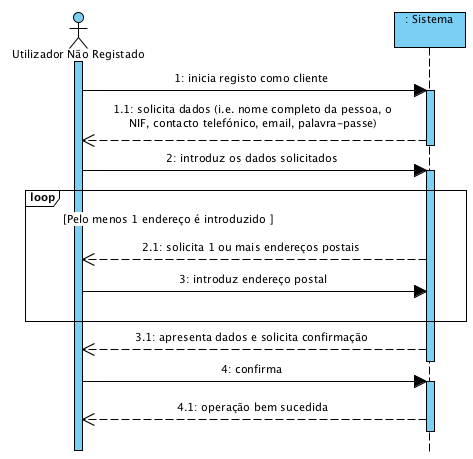
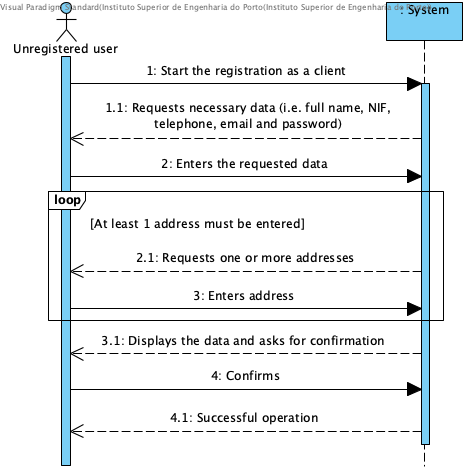
UC1 complete

Changed region(s): [[0.0, 0.0, 1.0, 1.0]]

diff --git a/CasosUso/UC1_ClientRegistration.md b/CasosUso/UC1_ClientRegistration.md
@@ -1,0 +1,91 @@
+# UC1 - Register as a Client
+
+## Brief Description
+
+The unregistered user starts the registration as a client. The system requests the necessary data (i.e. the person's full name, NIF, telephone contact, email, password, and at least one postal address). The unregistered user enters the requested data. The system validates and displays the data, asking you to confirm them. The unregistered user confirms. The system records the customer and registered user data and informs the unregistered user of the success of the operation.
+
+## SSD
+![UC1-SSD-IT2.png](SSD_UC1_IT2.png)
+
+## Full Description
+
+### Primary Actor
+
+Unregistered user
+
+### Stakeholders and their interests
+* **Unregistered User:** intends to register so that you can enjoy the services provided by the company.
+* **Company:** intends that the person concerned becomes a client in order to request services.
+
+
+### Preconditions
+n/a
+
+### Postconditions
+The registration information is stored in the system.
+
+## Main Success Scenario
+
+1. The unregistered user starts the registration as a client.
+2. The system requests the necessary data (i.e. the person's full name, NIF, telephone contact, email and password).
+3. The unregistered user enters the requested data.
+4. The system requests a postal address.
+5. The unregistered user enters the postal address.
+6. The system validates and stores the entered address.
+7. Steps 4 to 6 are repeated until all the required postal addresses are entered (minimum 1).
+8. The system validates and displays the data, asking you to confirm them.
+9. The unregistered user confirms.
+10. system registers the customer and registered user data and informs the unregistered user of the success of the operation.
+
+### Exception conditions (alternative flow)
+
+*a. The unregistered user requests the cancellation of the registration.
+
+> The use case ends.
+
+** 4a. NIF and / or duplicate e-mail address **
+> 1. The system informs the user about the duplication of the data.
+> 2. The system allows you to enter new data (step 3)
+>
+> 2a. The unregistered user does not change the data. The use case ends.
+
+6b. Incomplete Postal Address Information.
+> 1. The system informs you of missing data.
+> 2. The system allows the missing data to be entered (step 5)
+>
+> 2a. The unregistered user does not change the data. The use case ends.
+
+8a. Required minimum data missing.
+> 1. The system informs you of missing data.
+> 2. The system allows the missing data to be entered (step 3)
+>
+> 2a. The unregistered user does not change the data. The use case ends.
+
+8b. The system detects that the data (or some subset of the data) entered must be unique and already exist in the system.
+> 1. The system alerts the unregistered user to the fact.
+> 2. The system allows you to change it (step 3)
+>
+> 2a. The unregistered user does not change the data. The use case ends.
+
+8c. The system detects that the entered data (or some subset of the data) is invalid.
+> 1. The system alerts the unregistered user to the fact.
+> 2. The system allows you to change it (step 3).
+>
+> 2a. The unregistered user does not change the data. The use case ends.
+
+### Special Requirements
+\ -
+
+### Variations in Technologies and Data
+\ -
+
+### Frequency of Occurrence
+\ -
+
+### Open questions
+
+* Are there any other mandatory data besides those already known?
+* What data together allow you to detect duplicate customers?
+* Is there any additional security mechanism required to confirm that the customer is in fact who he or she claims to be?
+* What are the security rules applicable to the password?
+* How often does this use case occur?

diff --git a/Design/UC1_ClientRegistration.md b/Design/UC1_ClientRegistration.md
@@ -1,0 +1,46 @@
+# Realization of UC1 - Client Registration
+
+## Rational
+
+| Main Flow                                                                                        | Question: Which class...                                      | Answer                                       | Justification                                                                                                         |
+|:-------------------------------------------------------------------------------------------------------|:------------------------------------------------------------|:-----------------------------------------------|:---------------------------------------------------------------------------------------------------------------------|
+| 1. The unregistered user starts the registration as a client. | ... interacts with the user? | ClientRegistrationUI | PureFabrication |
+|| ... coordinates the UC? | ClientRegistrationController | Controller|
+|| ... create / instance Client? |ClientRegistry|HC + LC (on Company) + Creator (Rule 1) |  
+|| ... who knows the ClientRegistry? |Company|HC+LC|
+| 2. The system requests the required data (i.e. full name, NIF, telephone contact, email and password). | | ||
+| 3. The unregistered user enters the requested data. |...Save the entered data? | Client | Information Expert (IE) - instance created in step 1 |                                  
+| 4. The system requests an address.||||
+| 5. The unregistered user enters the postal address. | ... create / instance Address? | Client | Creator (Rule 4) |
+|| ... save the entered data? | Address | Information Expert (IE) - instance created in this step |
+||| PostalCode | IE: Adress has a PostalCode |
+| 6. The system validates and stores the entered address. | ... save the created Address instance? |Client | Information Expert (IE) - In MD the Client mentions one or more Addresses |
+| 7. Steps 4 to 6 are repeated until all the required postal addresses are entered (minimum 1).||||
+| 8. The system validates and presents the data, asking you to confirm them. | ... validates the data of the Client (local validation)? | Client | E: Client has its own data |
+|| ... validates the customer data (global validation)? | ClientRegistry | IE: The ClientRegistry contains Clients |
+| 9. The unregistered user confirms. ||||
+| 10. system registers the customer and registered user data and informs the unregistered user of the success of the operation.|... keeps the client registered?|ClientRegistry|IE. the ClientRegistry contains Clients |
+
+## Systematization ##
+
+From the rational it results that the conceptual classes promoted to classes of software are:
+
+ * Company
+ * Address
+ * Postal Code
+ * Client
+ * ClientRegistry
+
+Other software classes (i.e. Pure Fabrication) identified:
+
+ * ClientRegistrationUI  
+ * ClientRegistrationController
+
+##	Sequence Diagram
+
+![SD_UC1_IT2.png](SD_UC1_IT2.png)
+
+
+##	Class Diagram
+
+![CD_UC1_IT2.png](CD_UC1_IT2.png)

diff --git a/UseCases.md b/UseCases.md
@@ -5,7 +5,7 @@
 # Use Cases
 | UC    | Descrição                                                                                                  |
 | :---- | :------------------------------------------------------------------------                                  |
-| UC1   | [Efetuar Registo como Cliente](CasosUso/UC1_EfetuarRegistoCliente.md)                                      |
+| UC1   | [Client Registration](CasosUso/UC1_ClientRegistration.md)                                      |
 | UC2   | [Submeter Candidatura a Prestador Serviço](CasosUso/UC2_SubmeterCandidaturaPrestadorServico.md)            |
 | UC3   | [Especificar Categoria (de Serviço)](CasosUso/UC3_EspecificarCategoria.md)                                 |
 | UC4   | [Especificar Serviço](CasosUso/UC4_EspecificarServico.md)                                                  |

diff --git a/OODesign.md b/OODesign.md
@@ -3,7 +3,7 @@
 
 | UC    | Descrição                                                                                                |
 | :---- | :------------------------------------------------------------------------                                |
-| UC1   | [Efetuar Registo como Cliente](Design/UC1_EfetuarRegistoCliente.md)                                      |
+| UC1   | [Client Registration](Design/UC1_ClientRegistration.md)                                      |
 | UC2   | [Submeter Candidatura a Prestador Serviço](Design/UC2_SubmeterCandidaturaPrestadorServico.md)            |
 | UC3   | [Especificar Categoria (de Serviço)](Design/UC3_EspecificarCategoria.md)                                 |
 | UC4   | [Especificar Serviço](Design/UC4_EspecificarServico.md)                                                  |
